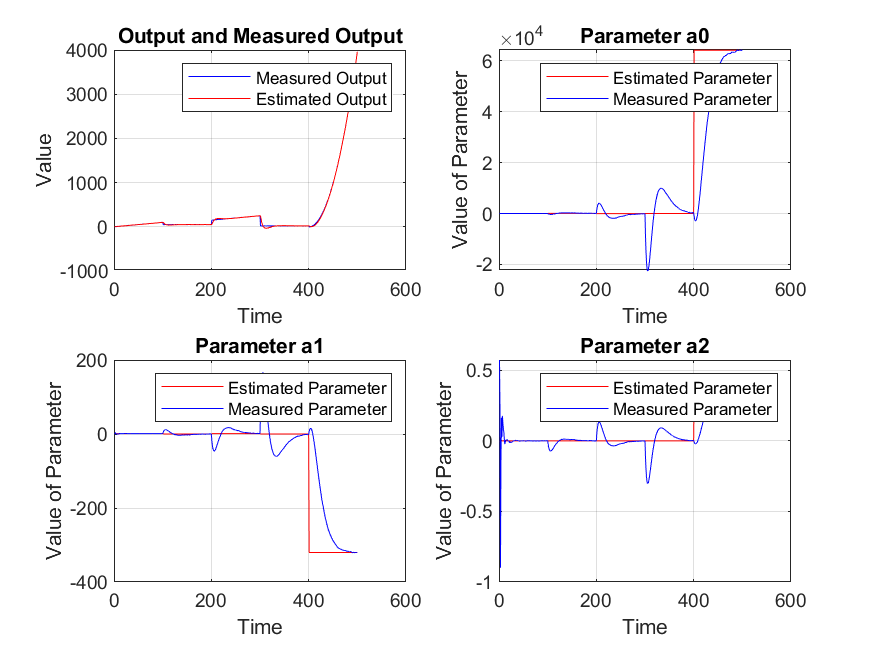
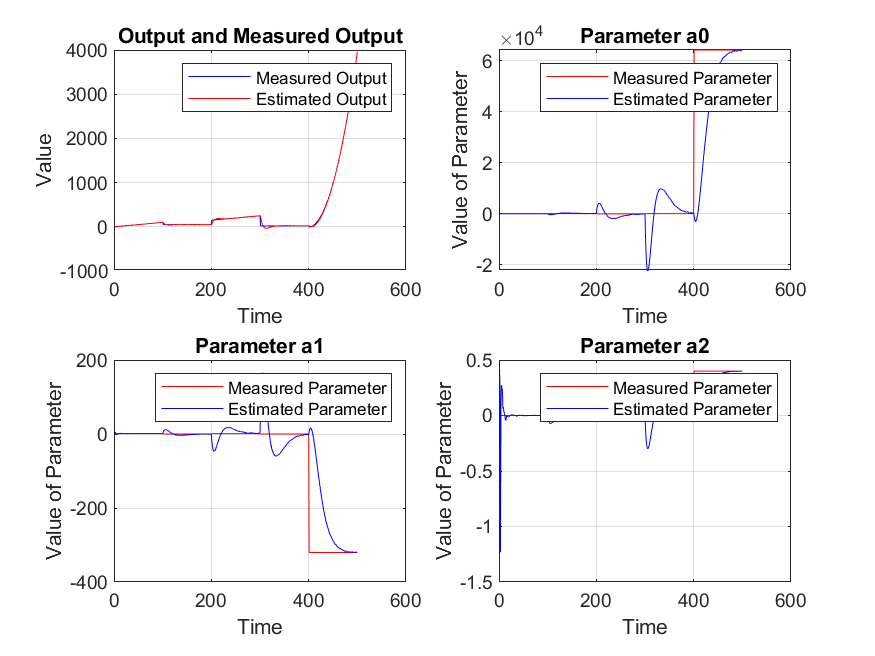
Correction of "legend"

diff --git a/MATLAB/code/Test2.m b/MATLAB/code/Test2.m
@@ -40,19 +40,8 @@ plot(numSample,estimatedOut,'r-');
 title('Output and Measured Output');
 xlabel('Time');
 ylabel('Value');
-legend('Estimated Output','Measured Output');
+legend('Measured Output','Estimated Output');
 grid on 
-
-subplot(2,2,2);
-plot(numSample,true_a1,'r-');
-hold on 
-plot(numSample,theta_full(:,1),'b-')
-xlabel('Time');
-ylabel('Value of Parameter');
-title('Parameter a1')
-legend('Estimated Parameter','Measured Parameter');
-grid on 
-
 
 subplot(2,2,2);
 plot(numSample,true_a0,'r-');
@@ -61,7 +50,7 @@ plot(numSample,theta_full(:,2),'b-')
 xlabel('Time');
 ylabel('Value of Parameter');
 title('Parameter a0')
-legend('Estimated Parameter','Measured Parameter');
+legend('Measured Parameter','Estimated Parameter');
 grid on 
 
 subplot(2,2,3);
@@ -71,8 +60,8 @@ plot(numSample,theta_full(:,1),'b-')
 xlabel('Time');
 ylabel('Value of Parameter');
 title('Parameter a1')
-legend('Estimated Parameter','Measured Parameter');
-grid on 
+legend('Measured Parameter','Estimated Parameter');
+grid on  
  
 
 print('..\rls\MATLAB\images\Test2Check','-dpng');

diff --git a/MATLAB/code/Test3.m b/MATLAB/code/Test3.m
@@ -44,7 +44,7 @@ plot(numSample,theta_full(:,3),'b-')
 xlabel('Time');
 ylabel('Value of Parameter');
 title('Parameter a0')
-legend('Estimated Parameter','Measured Parameter');
+legend('Measured Parameter','Estimated Parameter');
 grid on  
 
 subplot(2,2,3);
@@ -54,7 +54,7 @@ plot(numSample,theta_full(:,2),'b-')
 xlabel('Time');
 ylabel('Value of Parameter');
 title('Parameter a1')
-legend('Estimated Parameter','Measured Parameter');
+legend('Measured Parameter','Estimated Parameter');
 grid on 
 
 subplot(2,2,4);
@@ -64,7 +64,7 @@ plot(numSample,theta_full(:,1),'b-')
 xlabel('Time');
 ylabel('Value of Parameter');
 title('Parameter a2');
-legend('Estimated Parameter','Measured Parameter');
-grid on    
-
+legend('Measured Parameter','Estimated Parameter');
+grid on 
+    
 print('..\rls\MATLAB\images\Test3Check','-dpng');
